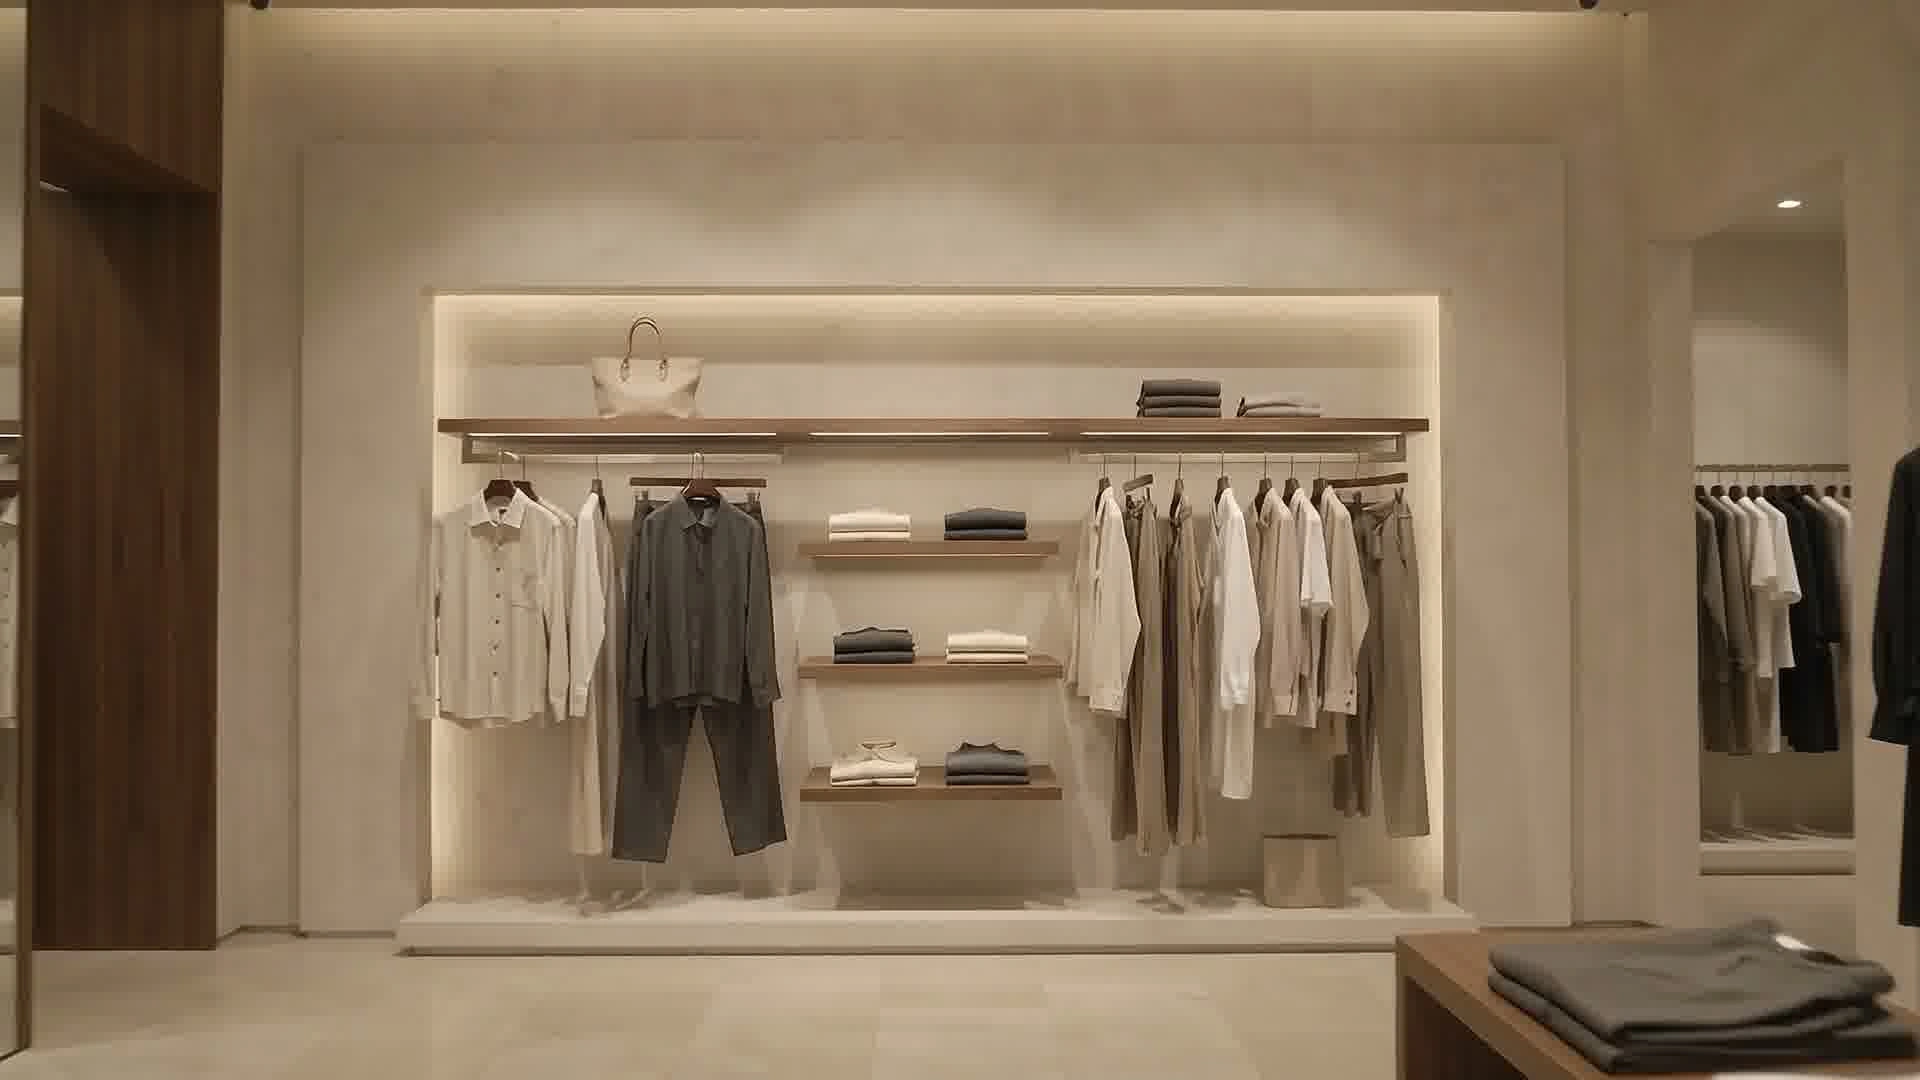
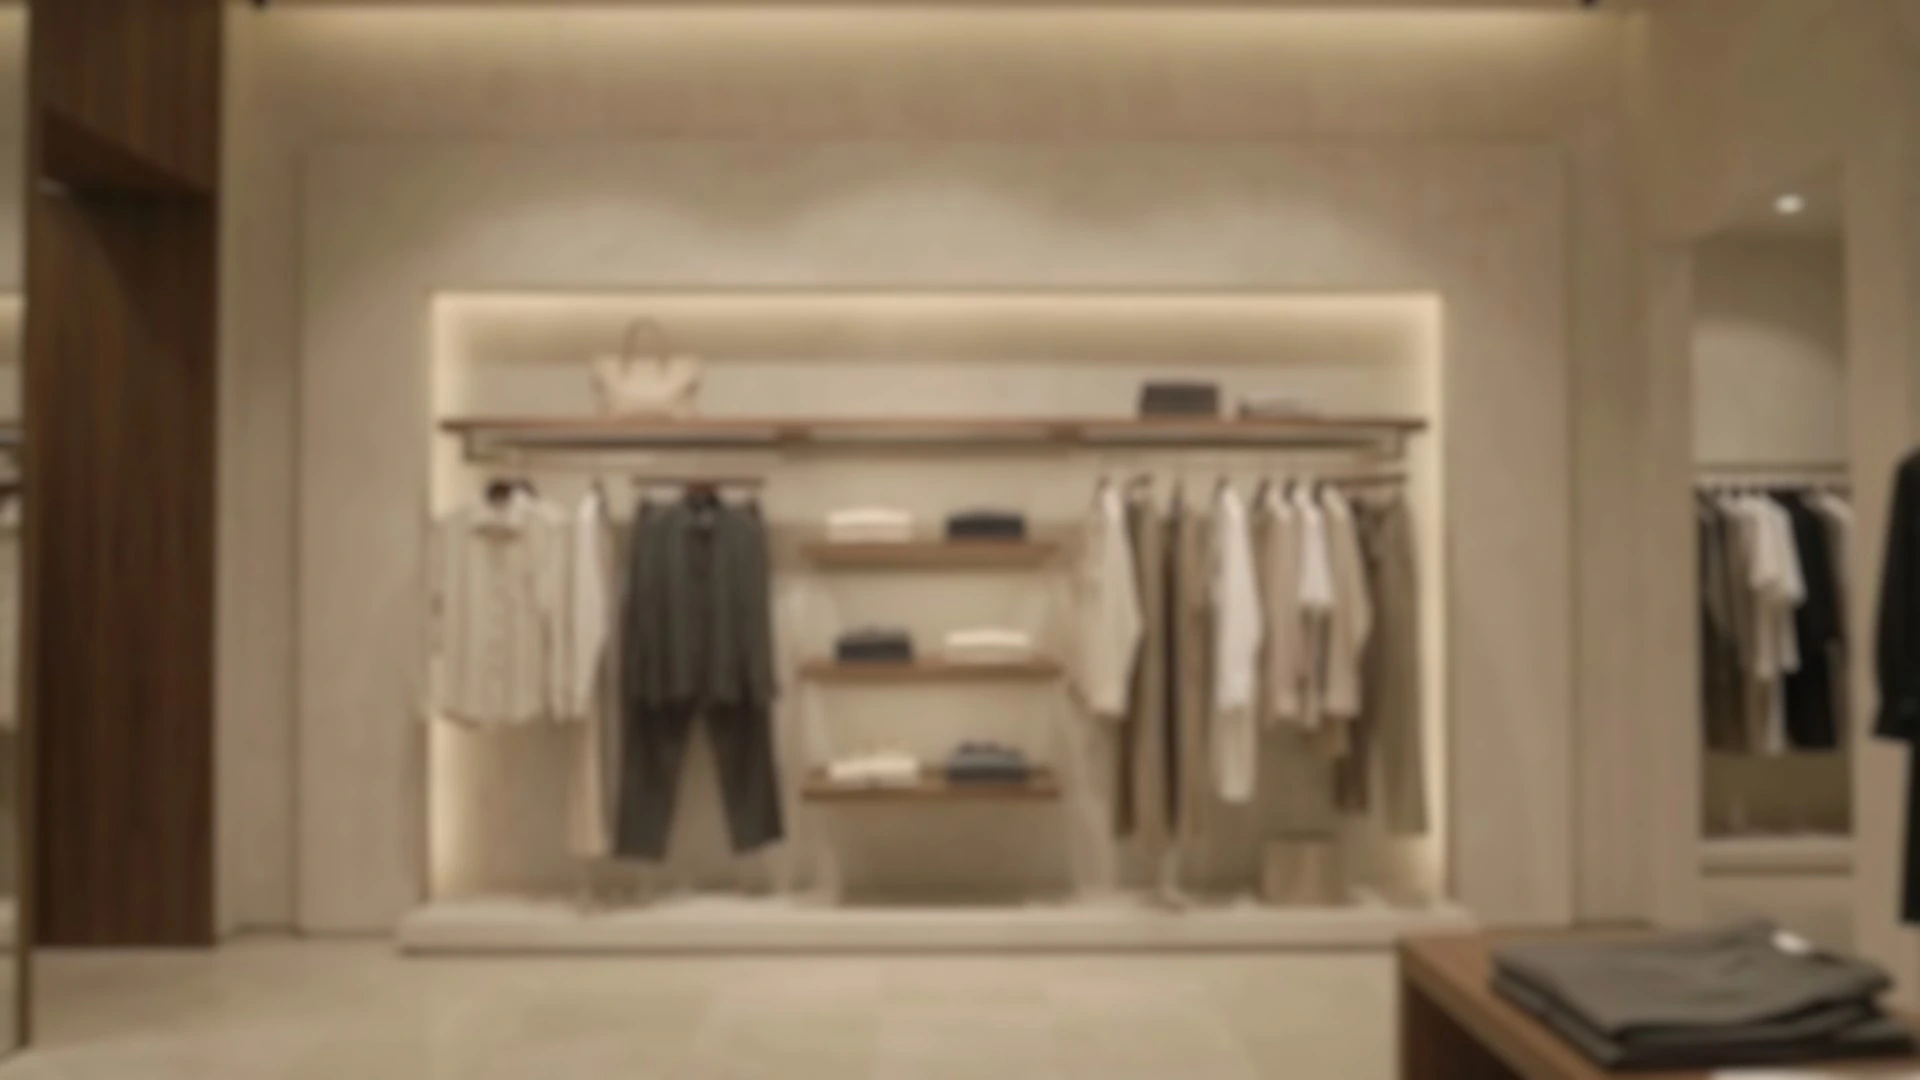
optimized

diff --git a/src/lib/services.ts b/src/lib/services.ts
@@ -2,6 +2,7 @@
 // Modest Fashion Platform — Data Service Layer
 // ============================================
 
+import { unstable_cache } from 'next/cache';
 import { Product, Category, LookbookItem, AnalyticsEvent } from '@/types';
 import { MOCK_CATEGORIES, MOCK_PRODUCTS, MOCK_LOOKBOOK } from './mockData';
 
@@ -31,7 +32,7 @@ async function getSupabaseClient() {
 // Category Services
 // ----------------------------------------------------
 
-export async function getCategories(): Promise<Category[]> {
+export const getCategories = unstable_cache(async (): Promise<Category[]> => {
   if (!isSupabaseConfigured()) {
     return MOCK_CATEGORIES;
   }
@@ -49,13 +50,13 @@ export async function getCategories(): Promise<Category[]> {
     console.error('Error fetching categories from Supabase, falling back to mock:', err);
     return MOCK_CATEGORIES;
   }
-}
+}, ['categories-cache'], { revalidate: 3600, tags: ['categories'] });
 
 // ----------------------------------------------------
 // Product Services
 // ----------------------------------------------------
 
-export async function getProducts(options?: {
+export const getProducts = unstable_cache(async (options?: {
   categorySlug?: string;
   featured?: boolean;
   limit?: number;
@@ -63,7 +64,7 @@ export async function getProducts(options?: {
   sizes?: string[];
   colors?: string[];
   priceRange?: [number, number];
-}): Promise<Product[]> {
+}): Promise<Product[]> => {
   if (!isSupabaseConfigured()) {
     let products = [...MOCK_PRODUCTS];
 
@@ -176,7 +177,7 @@ export async function getProducts(options?: {
     // Simple filter of mock data for fallback
     return getProductsMock(options);
   }
-}
+}, ['products-cache'], { revalidate: 3600, tags: ['products'] });
 
 // Local helper to filter mock data for fallback
 function getProductsMock(options?: {
@@ -211,7 +212,7 @@ function getProductsMock(options?: {
   }));
 }
 
-export async function getProductBySlug(slug: string): Promise<Product | null> {
+export const getProductBySlug = unstable_cache(async (slug: string): Promise<Product | null> => {
   if (!isSupabaseConfigured()) {
     const product = MOCK_PRODUCTS.find(p => p.slug === slug);
     if (!product) return null;
@@ -243,9 +244,9 @@ export async function getProductBySlug(slug: string): Promise<Product | null> {
       category: MOCK_CATEGORIES.find(c => c.id === product.category_id)
     };
   }
-}
+}, ['product-slug-cache'], { revalidate: 3600, tags: ['products'] });
 
-export async function getRelatedProducts(productId: string, categoryId: string, limit = 4): Promise<Product[]> {
+export const getRelatedProducts = unstable_cache(async (productId: string, categoryId: string, limit = 4): Promise<Product[]> => {
   if (!isSupabaseConfigured()) {
     return MOCK_PRODUCTS
       .filter(p => p.category_id === categoryId && p.id !== productId)
@@ -273,13 +274,13 @@ export async function getRelatedProducts(productId: string, categoryId: string, 
       .filter(p => p.category_id === categoryId && p.id !== productId)
       .slice(0, limit);
   }
-}
+}, ['related-products-cache'], { revalidate: 3600, tags: ['products'] });
 
 // ----------------------------------------------------
 // Lookbook Services
 // ----------------------------------------------------
 
-export async function getLookbookItems(): Promise<LookbookItem[]> {
+export const getLookbookItems = unstable_cache(async (): Promise<LookbookItem[]> => {
   if (!isSupabaseConfigured()) {
     return MOCK_LOOKBOOK.map(item => ({
       ...item,
@@ -338,7 +339,7 @@ export async function getLookbookItems(): Promise<LookbookItem[]> {
       related_products: MOCK_PRODUCTS.filter(p => item.related_product_ids.includes(p.id))
     }));
   }
-}
+}, ['lookbook-cache'], { revalidate: 3600, tags: ['lookbook'] });
 
 // ----------------------------------------------------
 // Analytics Services (Fire and Forget)

diff --git a/src/components/AurenStoreScroll/AurenStoreScroll.tsx b/src/components/AurenStoreScroll/AurenStoreScroll.tsx
@@ -192,9 +192,9 @@ export default function AurenStoreScroll({
           } else if (progress > 0.47) {
             alpha = 1 - (progress - 0.47) / 0.05;
           }
-          midBadgeRef.current.style.display = 'block';
+          midBadgeRef.current.style.display = 'flex';
           midBadgeRef.current.style.opacity = String(Math.max(0, Math.min(1, alpha)));
-          midBadgeRef.current.style.transform = 'translate(-50%, -50%) scale(1)';
+          midBadgeRef.current.style.transform = 'scale(1)';
         } else {
           midBadgeRef.current.style.display = 'none';
         }
@@ -446,11 +446,11 @@ export default function AurenStoreScroll({
         {/* 2. Midway Entrance Milestone Badge (36% - 52%) */}
         <div
           ref={midBadgeRef}
-          className="absolute top-1/2 left-1/2 z-25 pointer-events-none -translate-x-1/2 -translate-y-1/2 text-center"
+          className="auren-overlay-layer flex-col"
           style={{ display: 'none', opacity: 0 }}
         >
-          <div className="px-5 py-2 glass-dark backdrop-blur-md border border-white/10 rounded-full inline-block shadow-2xl">
-            <p className="text-[10px] sm:text-xs font-light tracking-[0.35em] uppercase text-brand-cream/90">
+          <div className="px-5 py-2 glass-dark backdrop-blur-md border border-white/10 rounded-full shadow-2xl">
+            <p className="text-[10px] sm:text-xs font-light tracking-[0.35em] uppercase text-brand-cream/90 pl-[0.35em] text-center">
               Entering The Collection
             </p>
           </div>
